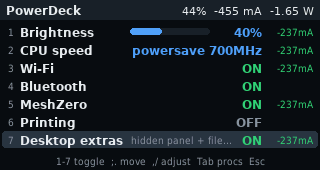
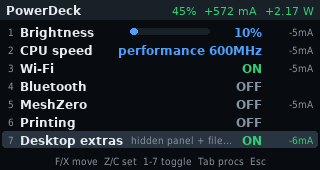
Use plain F/Z/X/C as arrow keys
The arrows printed on F Z X C now work without Fn: F/X move up and down,
Z/C turn a setting down/up or a switch off/on. Fn+F/Z/X/C and ; . , /
still work. Footer hints, README and tests updated.

diff --git a/powerdeck.py b/powerdeck.py
@@ -8,10 +8,13 @@ it, and a second screen listing the busiest processes.
 
 Changes last until the next restart.
 
-Keys (main):  Fn+F / Fn+X or ; .   move        1-7  jump to a row and toggle
-              Enter / Space        toggle      Fn+Z / Fn+C or , /  less / more
-              Tab                  processes   Esc, Q  quit
-Keys (procs): ; .  move   K twice  stop the selected process   Tab / Esc  back
+The arrow keys printed on F Z X C work without Fn (Fn+F/Z/X/C and ; . , /
+work too).
+
+Keys (main):  F / X   up / down             1-7  jump to a row and toggle
+              Z / C   less / more, off / on Enter / Space  toggle
+              Tab     processes             Esc, Q  quit
+Keys (procs): F / X  move   K twice  stop the selected process   Tab / Esc  back
 """
 import json
 import os
@@ -41,6 +44,10 @@ CPUFREQ = "/sys/devices/system/cpu/cpu0/cpufreq"
 K_ESC, K_TAB, K_ENTER, K_SPACE, K_Q, K_K = 1, 15, 28, 57, 16, 37
 K_UP, K_DOWN, K_LEFT, K_RIGHT = 103, 108, 105, 106
 K_SEMI, K_DOT, K_COMMA, K_SLASH = 39, 52, 51, 53
+K_F, K_Z, K_X, K_C = 33, 44, 45, 46
+# plain F Z X C (arrows printed on the keys) and ; . , / act as arrows
+ARROWS = {K_F: K_UP, K_X: K_DOWN, K_Z: K_LEFT, K_C: K_RIGHT,
+          K_SEMI: K_UP, K_DOT: K_DOWN, K_COMMA: K_LEFT, K_SLASH: K_RIGHT}
 K_DIGITS = {2 + i: i for i in range(9)}   # "1".."9" -> 0..8
 
 BG = (12, 14, 18)
@@ -563,6 +570,7 @@ class App:
         self.msg = (text, time.time() + secs)
 
     def on_key(self, code, repeat=False):
+        code = ARROWS.get(code, code)
         if self.screen == "procs":
             return self.on_key_procs(code, repeat)
         if repeat and code not in (K_LEFT, K_RIGHT, K_COMMA, K_SLASH,
@@ -693,7 +701,7 @@ class App:
                 # current is negative when discharging: +d = less drain
                 self.text(self.f_lbl, f"{-d:+.0f}mA", dcol, (W - 6, y + 3),
                           "topright")
-        self.draw_footer("1-7 toggle  ;. move  ,/ adjust  Tab procs  Esc")
+        self.draw_footer("F/X move  Z/C set  1-7 toggle  Tab procs  Esc")
 
     def draw_procs(self):
         self.draw_header("Processes")
@@ -720,7 +728,7 @@ class App:
             self.text(self.f_lbl, r["user"][:9], DIM, (256, y + 2))
         if not rows:
             self.text(self.f_sm, "measuring…", DIM, (W // 2, 90), "center")
-        self.draw_footer(";. move   K K stop   Tab back")
+        self.draw_footer("F/X move   K K stop   Tab back")
 
     def draw_hint(self, s, x0, x1, y):
         """Row description, shortened to fit between name and value."""

diff --git a/test_ui.py b/test_ui.py
@@ -76,10 +76,14 @@ wait_idle(wifi)
 check("second press turns Wi-Fi off", wifi.state is False)
 
 mesh = app.items[4]
-app.on_key(5 + 1)                   # key "5": MeshZero needs confirming
+if not mesh.state:                  # turning on needs no confirm
+    app.on_key(5 + 1)
+    wait_idle(mesh)
+app.on_key(5 + 1)                   # key "5": turning off needs confirming
+check("MeshZero off asks first", mesh.state is True and app.pending)
 app.on_key(5 + 1)
 wait_idle(mesh)
-check("MeshZero toggles after confirm", mesh.state is False)
+check("MeshZero turns off after confirm", mesh.state is False)
 
 app.on_key(7 + 1)                   # key "7": desktop extras, no confirm
 wait_idle(app.items[6], 3)
@@ -102,6 +106,23 @@ check("won't stop system processes", "system process" in app.msg[0])
 snap("procs")
 app.on_key(pd.K_TAB)
 check("Tab returns", app.screen == "main")
+
+# plain F Z X C work as arrows
+app.sel = 0
+app.on_key(pd.K_X)
+check("X moves down", app.sel == 1)
+app.on_key(pd.K_F)
+check("F moves up", app.sel == 0)
+b1 = bri.state
+app.on_key(pd.K_C)
+check(f"C turns brightness up ({b1} -> {bri.state})", bri.state > b1)
+app.on_key(pd.K_Z)
+check("Z turns it back down", bri.state == b1)
+app.sel = 5                         # Printing: C = on, Z = off
+p0 = app.items[5].state
+app.on_key(pd.K_Z if p0 else pd.K_C)
+wait_idle(app.items[5])
+check("Z/C switch a row off/on", app.items[5].state == (not p0))
 
 app.running = False
 for name, ok in results:

diff --git a/README.md b/README.md
@@ -42,12 +42,14 @@ the launcher, the audio system or other system parts.
 | Key | Action |
 | --- | --- |
 | `1`–`7` | jump to a switch and flip it |
-| `;` `.` or `Fn`+`F` / `Fn`+`X` | move up / down |
+| `F` / `X` (the ↑ ↓ printed on them, no `Fn` needed) | move up / down |
 | `Enter` / `Space` | flip the switch (brightness cycles 20/50/100%, CPU cycles modes) |
-| `,` `/` or `Fn`+`Z` / `Fn`+`C` | less / more (brightness, CPU), or off / on |
+| `Z` / `C` (← →) | less / more (brightness, CPU), or off / on |
 | `Tab` | processes ↔ switches |
 | `K` twice | stop the selected process |
 | `Esc` / `Q` | quit (processes screen: back) |
+
+`Fn` + `F`/`Z`/`X`/`C` and `;` `.` `,` `/` also work as arrows.
 
 ## Install
 
